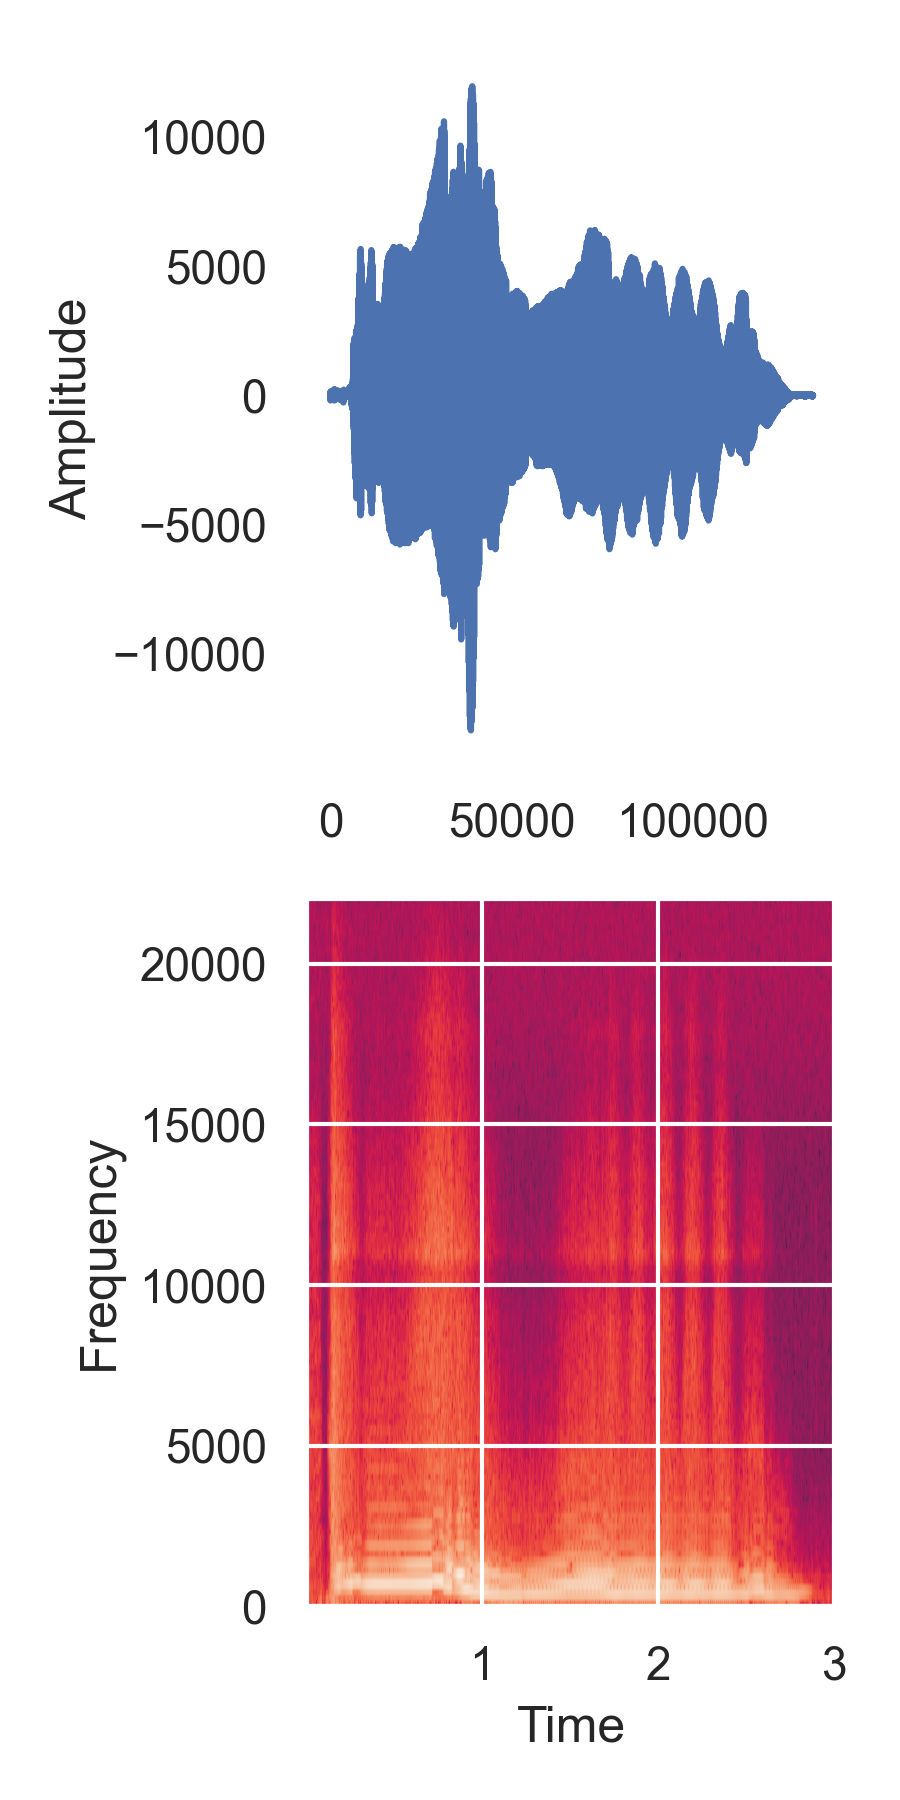
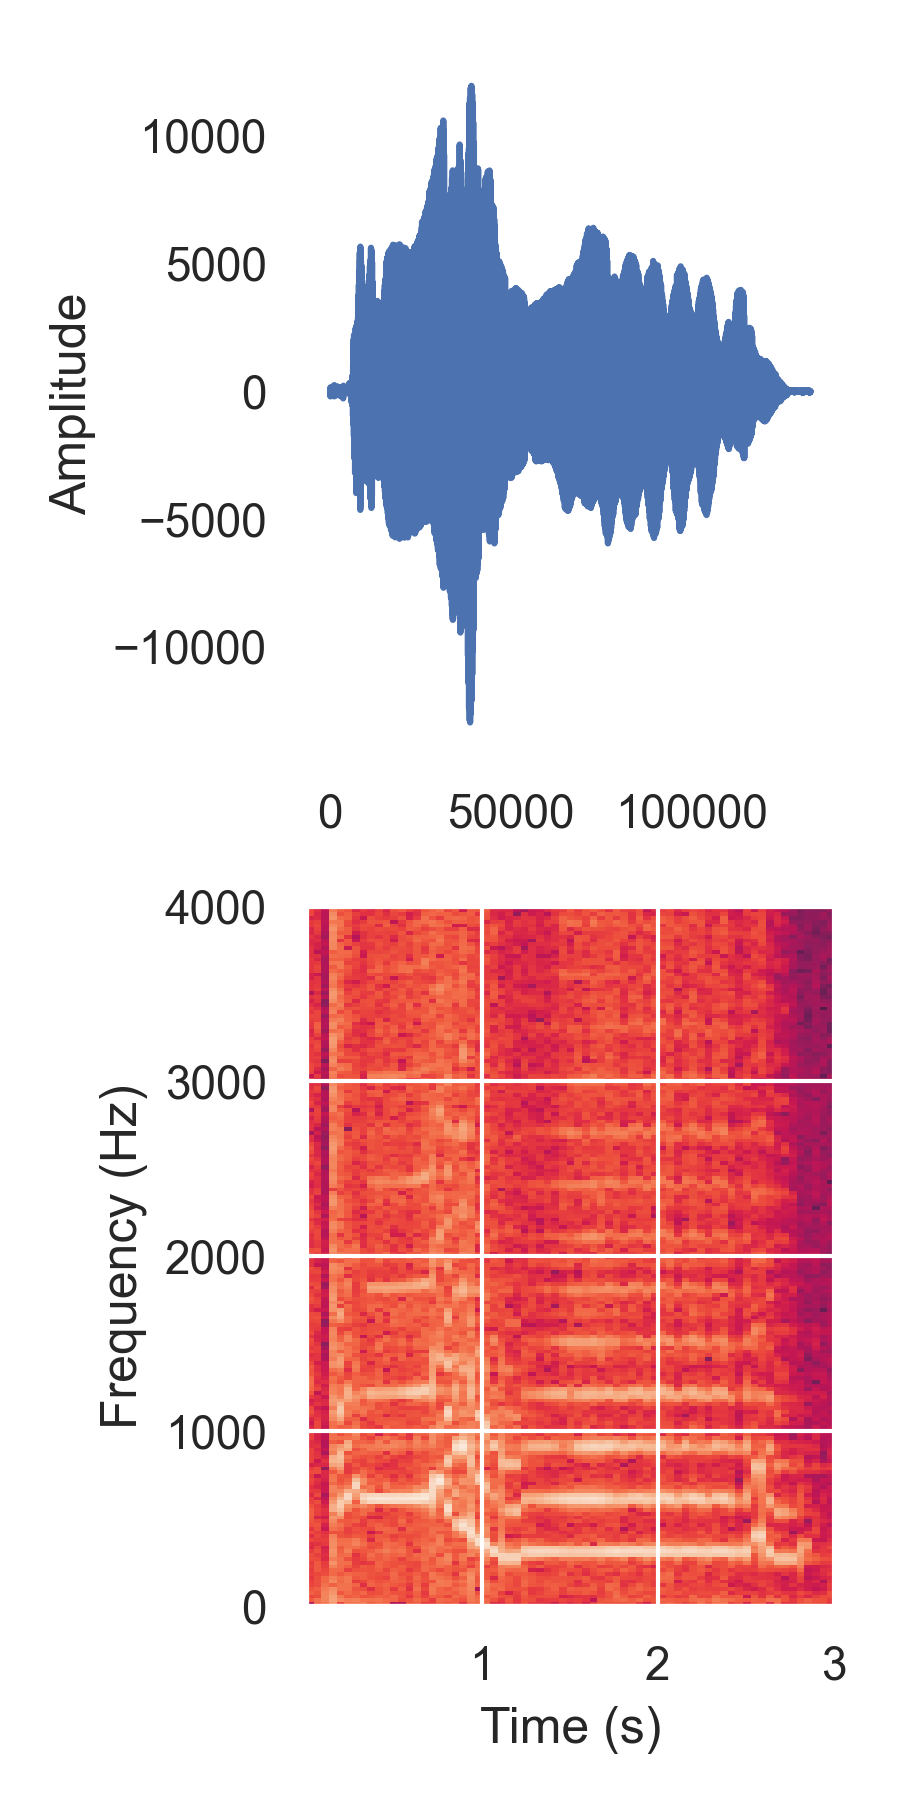
sampling theory

diff --git a/assets/revealthemes/charles1720-dark.scss b/assets/revealthemes/charles1720-dark.scss
@@ -254,7 +254,7 @@ $extensionColour: #9b59b6;
 		    // attach to bottom(ish)
 		    // setting "bottom" doesn't work because reveal.js shenanigans
 		    position: fixed;
-		    top: 65vh;
+		    top: 85vh;
 		    left: 0;
         
 		    p {

diff --git a/assets/reveal.js/anu.scss b/assets/reveal.js/anu.scss
@@ -268,7 +268,7 @@ $extensionColour: #9b59b6;
     // attach to bottom(ish)
     // setting "bottom" doesn't work because reveal.js shenanigans
     position: fixed;
-    top: 60vh;
+    top: 70vh;
     left: 0;
 
     p {

diff --git a/_lectures/02-sampling.md b/_lectures/02-sampling.md
@@ -5,6 +5,11 @@ image: assets/workshops/recorder-charles-martin.jpg
 image_alt: Photo by Charles Martin
 ---
 
+{% comment %}
+Daphne Oram: https://www.daphneoram.org/
+{% endcomment %}
+
+
 {% include slides/title.html %}
 
 {% include slides/background-image.html image="lectures/radigue.jpg" heading="so far: synthesisers" %}
@@ -20,7 +25,6 @@ creating sound from scratch with basic waveforms/shapes
    link="[listen: Trilogie de la Mort](https://xirecords.bandcamp.com/album/trilogie-de-la-mort)"
 %}
 
-
 {% include slides/background-image.html image="lectures/GRM1.jpg" heading="now: recordings" %}
 
 {:.fragment}
@@ -33,11 +37,26 @@ finding sounds from the real world, recording and manipulating
    link="[listen: Études de bruits (1948)](https://youtu.be/CTf0yE15zzI)"
 %}
 
-# Musique Concrete
+# Musique Concrète
 
-## Stockhausen vs Schaeffer
+![]({% link assets/lectures/phonogene-manning-2003.jpg %}){: style="width:40%;float:right;"}
 
-- Musique Concrete (Charles notes)
+- Musique Concrète was an artistic movement focussed on using recorded sounds.
+- Pierre Schaeffer (and team) in France, Post WW2 (1945-1960)
+- First using 78RPM records
+- Then manipulation of tape
+- GRM (Groupe de Recherches Musicales) [still exists!](https://inagrm.com/en)
+
+{:. style="font-size:.85em;"}
+Source: Manning, P. (2003). The Influence of Recording Technologies on the Early Development of Electroacoustic Music. Leonardo Music Journal 13, 5-10. <https://www.muse.jhu.edu/article/50703>
+
+## Why make _musique Concrète_?
+
+recordings are a _rich_ sound material
+
+recordings relate to the _real world_
+
+recordings are _flexible_ and _interesting_ at different scales
 
 {% include slides/background-image.html image="workshops/recorder-charles-martin.jpg" heading="getting some sound" %}
 
@@ -45,37 +64,154 @@ Why does sampling work?
 
 What information is there in the sound file?
 
+How do _we_ get some sounds?
+
 # Sampling Theory
 
 ![]({% link assets/lectures/example-bouncing-ball.png %})
 
 What is the possible path that the ball can take?
 
+## There's only one solution!
 
+As long as the ball doesn't bounce too fast.
 
+remember the Nyquist-Shannon Theorem:
 
+> A signal containing only frequencies lower than _B_ Hz can be (perfectly) reconstructed from samples taken at _2B_ Hz.
 
+## What does it mean for a sound to have frequencies in it?
 
+![]({% link assets/lectures/spectrogram.png %}){: style="width:25%;float:right;"}
 
+- We can think of complex sounds as combinations of basic sounds.
 
-# Sampling Theory 
+- The _most_ basic sound is the sine wave (or sinusoid) that we played last week.
 
-- (Dannenberg Chapter 3)
+- _All sound_ can be represented as a combination of sinusoids with different frequencies, amplitudes (and phases).
 
-## What's a sound file?
+- _Sounds change over time_, which means the amplitudes move up and down.
 
-## Frequency domain FFT
+## Defining the _most basic sound_
 
-- Freq domain FFT (DC3)
+![]({% link assets/lectures/diagram-phasor.png %}){: style="width:100%;"}
 
-## Granular Synthesis
+Imagine fixing a point on a spoke of a bicycle wheel as it spins. The _height_ of the moving point from the centre follows a sine wave.
 
-- Granular Synthesis (DC6.2)
+We can write down the height as a function: $h(t) = sin(2 \times \pi \times t)$
 
-## Sampling Synthesis
+## Changing the sinusoid
 
-- Sampling Synthesis (DC7)
+There's three parameters we can modify in the sinusoid:
 
+- frequency (how fast the wheel spins in cycles per second) 
+- amplitude (radius of the wheel)
+- phase (the point where we started spinning)
+
+We can extend the function: $h(t) = A \times sin(v \times 2\pi t + \phi)$
+
+This formulation is called a _phasor_.
+
+## Changing sinusoids
+
+![]({% link assets/lectures/diagram-sinusoids.png %})
+
+$h(t) = A \times sin(v \times 2\pi t + \phi)$
+
+What would the perceptual effect of these changes be on a sound wave?
+
+## Fourier Transform
+
+- In around ~1800, Jean Baptiste Fourier figured out that any "periodic" function can be expressed as the sum of a series of sine and cosine terms (i.e., a series of sinusoids).
+
+- A consequence of this is that you can find out the amplitude and phase of the sinusoidal component at a _certain frequency_.
+
+You can do this with the "Fourier Transform" formulas.
+
+- **Warning:** maths notation incoming: if you haven't done 1st year university maths, this will look _very_ confusing.
+- The good news is it's the _concept_ that is important, the maths iss presented for completeness and 
+
+## Fourier Transform Formulas
+
+ Given a function $f(t)$ and a frequency $\omega$
+
+- The sine amplitude is: $R(\omega) = \int_{-\inf}^{\inf} f(t)cos(\omega t)dt$
+- and cosine amplitude is: $X(\omega) = - \int_{-\inf}^{\inf} f(t)sin(\omega t)dt$
+
+The above give us _two_ amplitudes, for out-of-phase sine and cosine waves. These can be rewritten to the amplitude and phase for a sine wave:
+
+- Amplitude: $A(\omega) = \sqrt{R(\omega)^2 + X(\omega)^2}$
+- Phase: $\theta(\omega) = arctan(X(\omega) / W(\omega))$
+
+These equations integrate over all _t_ values (time)---so information about _time_ is lost!
+
+## Fourier Takeaways
+
+- All sounds can be deconstructed into sinusoids
+
+- Sinusoids have three parameters: amplitude, frequency, and phase
+
+- We can use maths to find the amplitude and phase for a given frequency in an audio signal
+
+- The (big) tradeoff is that information about _time_ is lost.
+
+Everything said above relates to infinitely long continuous signals, not sampled signals. We will come later to details about how to do this in the 
+
+See Dannenberg Chapter 3 for reference.
+
+## Sampling and the Frequency Domain
+
+![]({% link assets/lectures/diagram-sampling.png %}){: style="width:40%; float: right;" }
+
+You can look at sampling as a time domain operation.
+
+Create a series of impulses and multiply with the signal to be sampled.
+
+The result is the sampled information.
+
+_We hope_ that in the frequency domain the spectrum of our sound has been preserved.
+
+## Spectrum of a sampled signal
+
+![]({% link assets/lectures/diagram-sampling-spectrum-overlap.png %}){: style="width:80%;" }
+
+The frequency domain of the sampled signal is _really weird_.
+
+It turns out the spectrum of the signal copied at each multiple of the sampling rate. This is _bad_ because the copied frequencies interfere with spectrum that we want.
+
+## Solution:
+
+- Recorded sound contains _all kinds_ of frequencies that we can and can't hear.
+
+- Analogue-digital converters _filter_ the sound to make sure that only frequencies below the Nyquist frequency (half the sample rate) are sampled.
+
+- This avoids aliasing in the sampled signal messing up frequencies that we want.
+
+## Quantisation Noise
+
+Sampling also involves "rounding" the analogue signal to a digital number.
+
+Digital numbers have a concept of "precision" (how many possible values can be represented).
+
+- An 8-bit number (a byte) can only represent $2^8$ or 256 values
+- a 16-bit number can represent $2^16$ or 65536 values.
+
+The effect of rounding our samples is to introduce **noise** into the signal. 
+
+- We can measure the difference between the potential amplitude of a signal and the (always present) noise as a _signal-to-noise ratio_ in decibels (dB).
+- In practice: **16-bit** sample depth gives sufficient SNR that you can't perceive noise.
+
+## CD Quality Audio:
+
+Now you know why digital audio is often recorded at 44.1kHz sample rate and 16bit sample depth:
+
+- 44.1kHz: more than double 20kHz which is the maximum frequency humans can perceive to avoid audible aliasing.
+
+- 16-bit sample depth: gives ~98dB SNR so that we can't hear noise in a well-prepared signal.
+
+These values are often called "CD quality" audio as they were specified for the CD digital format. They give _extremely_ high-quality audio.
+
+# Making music with sound files
 
 ## Playing back sound files
 
@@ -116,3 +252,11 @@ Load in some of your own audio to make it unique.
 
 Check out the help "Browser" in Pd's help menu to see all the cool patches the
 creators have left for us to explore...
+
+## Granular Synthesis
+
+- Granular Synthesis (DC6.2)
+
+## Sampling Synthesis
+
+- Sampling Synthesis (DC7)

diff --git a/index.md b/index.md
@@ -14,12 +14,13 @@ Do you want to create sound and music with your computer? Do you want to build
 new kinds of musical instruments? Do you want to be a part of a laptop band?
 This is the course for you! 
 
+{% comment %}
 <div class="grid grid--3">
 {% anu_icon 003/49 %}
 {% anu_icon 006/23 %}
 {% anu_icon 006/41 %}
 </div>
-
+{% endcomment %}
 
 This course is an introduction to the fundamental concepts of music computing,
 including **digital synthesis**, **algorithmic composition**, and musical **interface
@@ -82,5 +83,5 @@ If you have enrolled in SMC, or are thinking about it, and want to get started, 
 
 If you have any questions, check out the [FAQ]({% link _resources/01-faq.md %}) to see they have already been answered.
 
-**Then show up in week 1 ready to make some computer music!**
+**Finally, show up in week 1 ready to make some computer music!**
 
